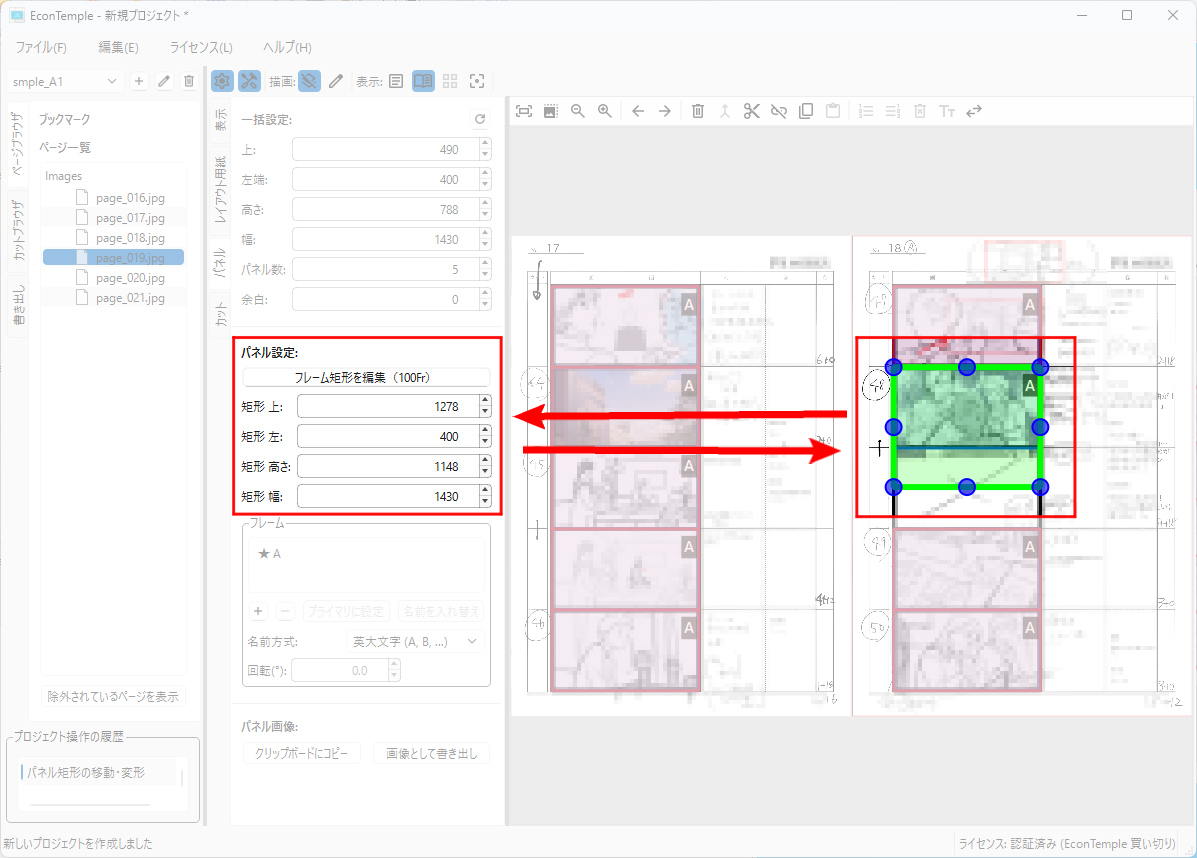
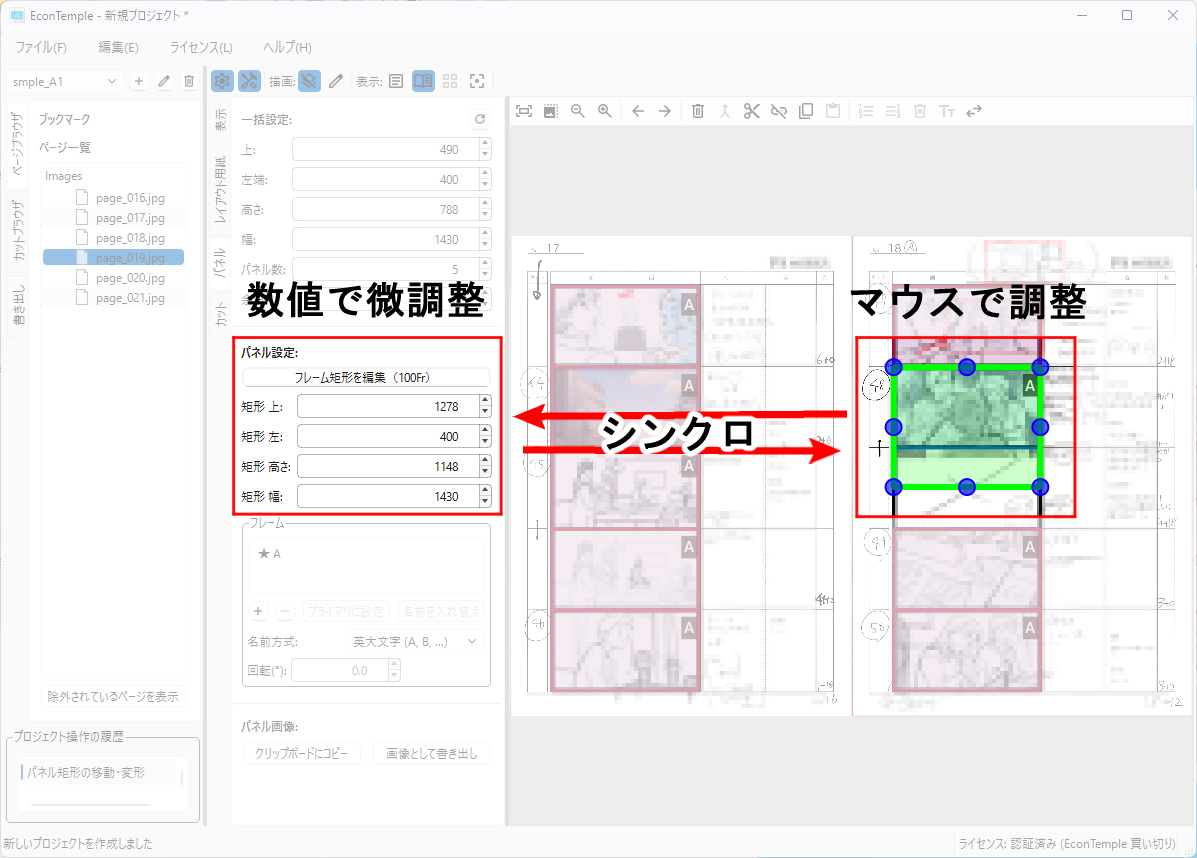
Enhance QUICKSTART.md with new features and visual aids
- Added instructions for synchronizing multiple panel edits within the graphics area.
- Introduced a section for resetting the current page's panels to batch settings.
- Updated visuals with new screenshots to illustrate the added functionalities.
- Improved clarity in existing instructions for frame adjustments and cut management.

Changed region(s): [[0.1855, 0.303, 0.4018, 0.3939], [0.4946, 0.4848, 0.6491, 0.5455], [0.7109, 0.3333, 0.9273, 0.3939]]

diff --git a/QUICKSTART.md b/QUICKSTART.md
@@ -203,13 +203,13 @@ PDFファイルのコンテを読み込むこともできます。
 - 選択パネルをドラッグでパネルを移動、ハンドル（青丸）ドラッグで枠を調整
 - パネルが選択されている時「パネル」タブの「パネル設定」のスピンボックスでも調整可
 
+![個別パネル調整](screenshots/step3_4_individual_adjustment.jpg)
+
 ##### 3-4-4. フレーム範囲の調整
 
 - 「パネル」タブ内の「パネル設定」の「フレーム矩形を編集（100Fr）」ボタンでモードを切り替えて調整します。「グラフィックス領域」のツールバーで「抽出/フレーム編集切り換え(E)」でも切り替え可能です。
 - 「グラッフィクス領域」でフレーム矩形を選択して抽出範囲と同じ要領で調整できます
 - フレーム矩形は抽出領域と同様の調整に加え、回転を調整することもできます
-
-![個別パネル調整](screenshots/step3_4_individual_adjustment.jpg)
 
 ![フレーム編集モード](screenshots/step3_4_frame_edit_mode.jpg)
 
@@ -217,6 +217,34 @@ PDFファイルのコンテを読み込むこともできます。
 
 - 一括設定で大まかに設定してから、個別調整するのが効率的です。
 - ページ切替時に「フレーム編集モード」は自動的にオフになります。
+- **複数パネルの同期編集**: グラフィックス領域で **Ctrl+クリック**、**Shift+クリック**、または範囲ドラッグで **同一ページ内** の抽出パネルを複数選択すると、選択中は移動・リサイズが **選んだパネルすべてに同時に反映** されます。複数コマを同じだけずらす・拡大する調整に便利です。選択を解除すると同期は終わります。
+
+![複数選択パネルの同期編集](screenshots/step3_4_multi_panel_sync_edit.jpg)
+
+#### 3-5. 現在ページのパネルを一括設定に戻す
+
+3-4 で **現在表示中のページだけ** 個別調整したあと、そのページをグループの **一括設定** の値に戻したいときに使います（他のページのパネルは変わりません）。
+
+1. 戻したいページをページブラウザで表示する（グラフィックス領域にそのページが出ている状態）。
+2. 左の設定タブ **「パネル」** を開く。
+3. **「一括設定:」** 行の右端にある **更新アイコン** のボタンをクリックする。  
+   - ツールチップ: **「現在ページのパネルを、グループの一括（バッチ）設定に合わせてリセットします」**
+   - ページが一括設定どおりのときはボタンが無効（グレーアウト）になります。
+
+**この操作で戻る内容（現在ページのみ）**
+
+- パネル数・各パネルの抽出矩形／フレームなど、個別に変更した設定
+- そのページで削除・除外したパネル（一括設定のパネル数に復帰）
+- ページ単位で上書きしていた設定
+
+**注意**
+
+- **カット作成（ステップ4）の前**にページ単位で枠を整え直す用途向けです。カットに紐づいているパネル構成が変わるため、空のカットの整理などが行われることがあります。
+- グループ全体のカットを作り直す操作（カットブラウザの **カットリセット**）とは別です。
+
+![一括設定横のページパネルリセット](screenshots/step3_5_reset_page_to_batch.jpg)
+
+（図の赤枠・説明文は読みやすくするための注釈です。操作対象は **「一括設定:」** 行右端の更新アイコンです。）
 
 ---
 
@@ -438,11 +466,15 @@ PDFファイルのコンテを読み込むこともできます。
   - 右クリック→「🔗 カット連携」→「兼用カットに設定」
   - 確認ダイアログで「はい」を選択
 
+![兼用カットに設定（複数選択と右クリック）](screenshots/step4_4_shared_cuts.jpg)
+
 2. **兼用カットの表示**
   - 兼用カットはカットブラウザで紫色（マゼンタ）で表示されます
   - カット名の横に **[兼用]** タグが表示されます
   - 「兼用カット」列に関連する他のカットが表示されます（例: Cut 24, Cut 27）
   - 「設定パネル」の「カット」タブのナビゲーション部分に兼用カットへのジャンプボタンが表示されて互いに切り換えて表示することができます。
+
+![兼用カットの表示（カットブラウザ・設定パネル）](screenshots/step4_4_shared_cuts_display.jpg)
 
 3. **兼用カットの用途**
   - **同じ背景を使うカット**: 同一場所で撮影角度や時間帯が異なるカット
@@ -453,8 +485,6 @@ PDFファイルのコンテを読み込むこともできます。
 
 - 書き出し時に兼用カットの情報を活用して、素材の整理ができます
 - 複数のカットで同じパネル画像を参照する場合に便利です
-
-![兼用カット設定後の表示](screenshots/step4_4_shared_cuts.jpg)
 
 ---
 
